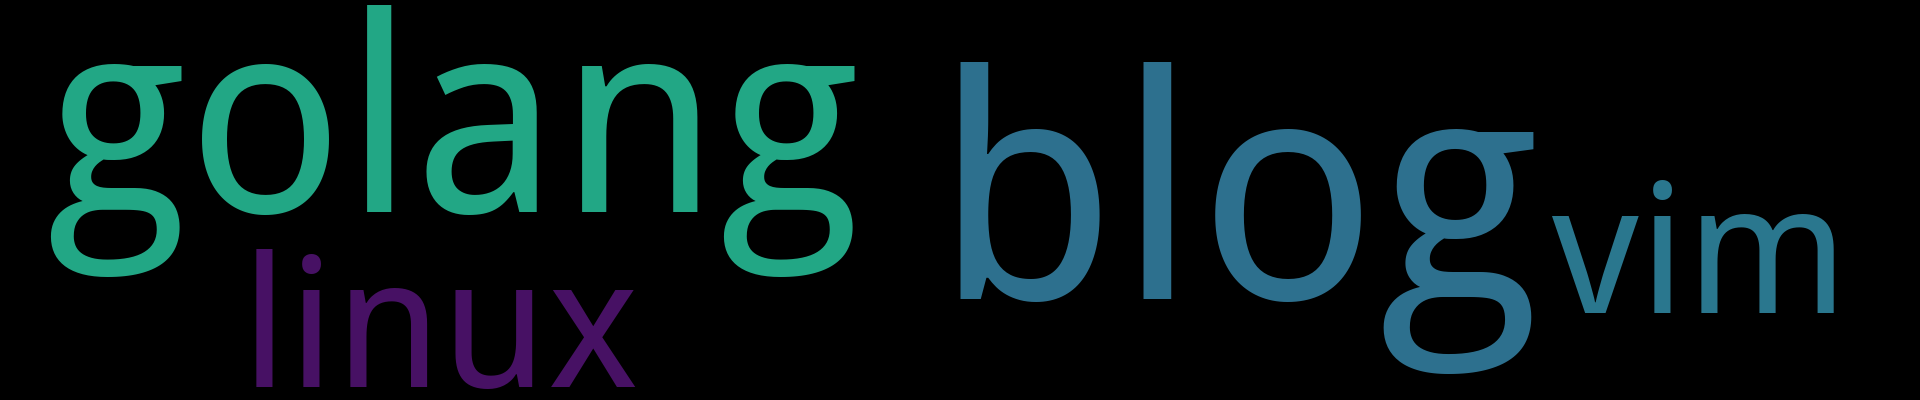
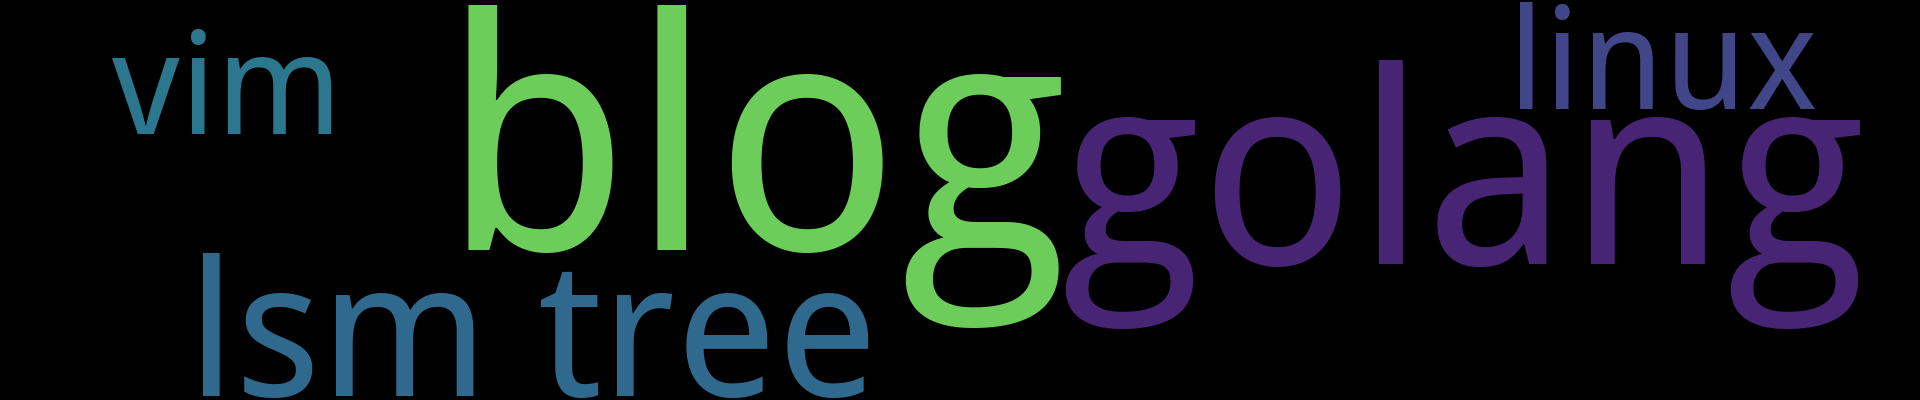
Update from Github Action

diff --git a/README.md b/README.md
@@ -1,7 +1,7 @@
 
 <p align='center'>
     <img src="https://badgen.net/github/issues/Zaire404//docs"/>
-    <img src="https://badgen.net/badge/last-commit/2025-03-02 05:33:30"/>
+    <img src="https://badgen.net/badge/last-commit/2025-03-02 05:44:08"/>
     <img src="https://badgen.net/github/forks/Zaire404//docs"/>
     <img src="https://badgen.net/github/stars/Zaire404//docs"/>
     <img src="https://badgen.net/github/watchers/Zaire404//docs"/>
@@ -13,8 +13,10 @@
 </summary>  
 
 <details open>
-<summary>blog	[4篇]</summary>
+<summary>blog	[6篇]</summary>
 
+- 2025-03-02 [Wisckey 键值分离优化](https://github.com/Zaire404/docs/issues/7) 
+- 2025-02-20 [Badger Compact部分详解](https://github.com/Zaire404/docs/issues/6) 
 - 2025-02-14 [go Context详解](https://github.com/Zaire404/docs/issues/4) 
 - 2025-02-14 [Vim 常用操作](https://github.com/Zaire404/docs/issues/3) 
 - 2025-02-14 [go 性能优化](https://github.com/Zaire404/docs/issues/2) 
@@ -24,8 +26,9 @@
 </details>
             
 <details open>
-<summary>golang	[3篇]</summary>
+<summary>golang	[4篇]</summary>
 
+- 2025-02-20 [Badger Compact部分详解](https://github.com/Zaire404/docs/issues/6) 
 - 2025-02-14 [go Context详解](https://github.com/Zaire404/docs/issues/4) 
 - 2025-02-14 [go 性能优化](https://github.com/Zaire404/docs/issues/2) 
 - 2025-02-14 [go 写题常用数据结构和函数](https://github.com/Zaire404/docs/issues/1) 
@@ -37,6 +40,15 @@
 <summary>linux	[1篇]</summary>
 
 - 2025-02-14 [Vim 常用操作](https://github.com/Zaire404/docs/issues/3) 
+
+
+</details>
+            
+<details open>
+<summary>lsm tree	[2篇]</summary>
+
+- 2025-03-02 [Wisckey 键值分离优化](https://github.com/Zaire404/docs/issues/7) 
+- 2025-02-20 [Badger Compact部分详解](https://github.com/Zaire404/docs/issues/6) 
 
 
 </details>
